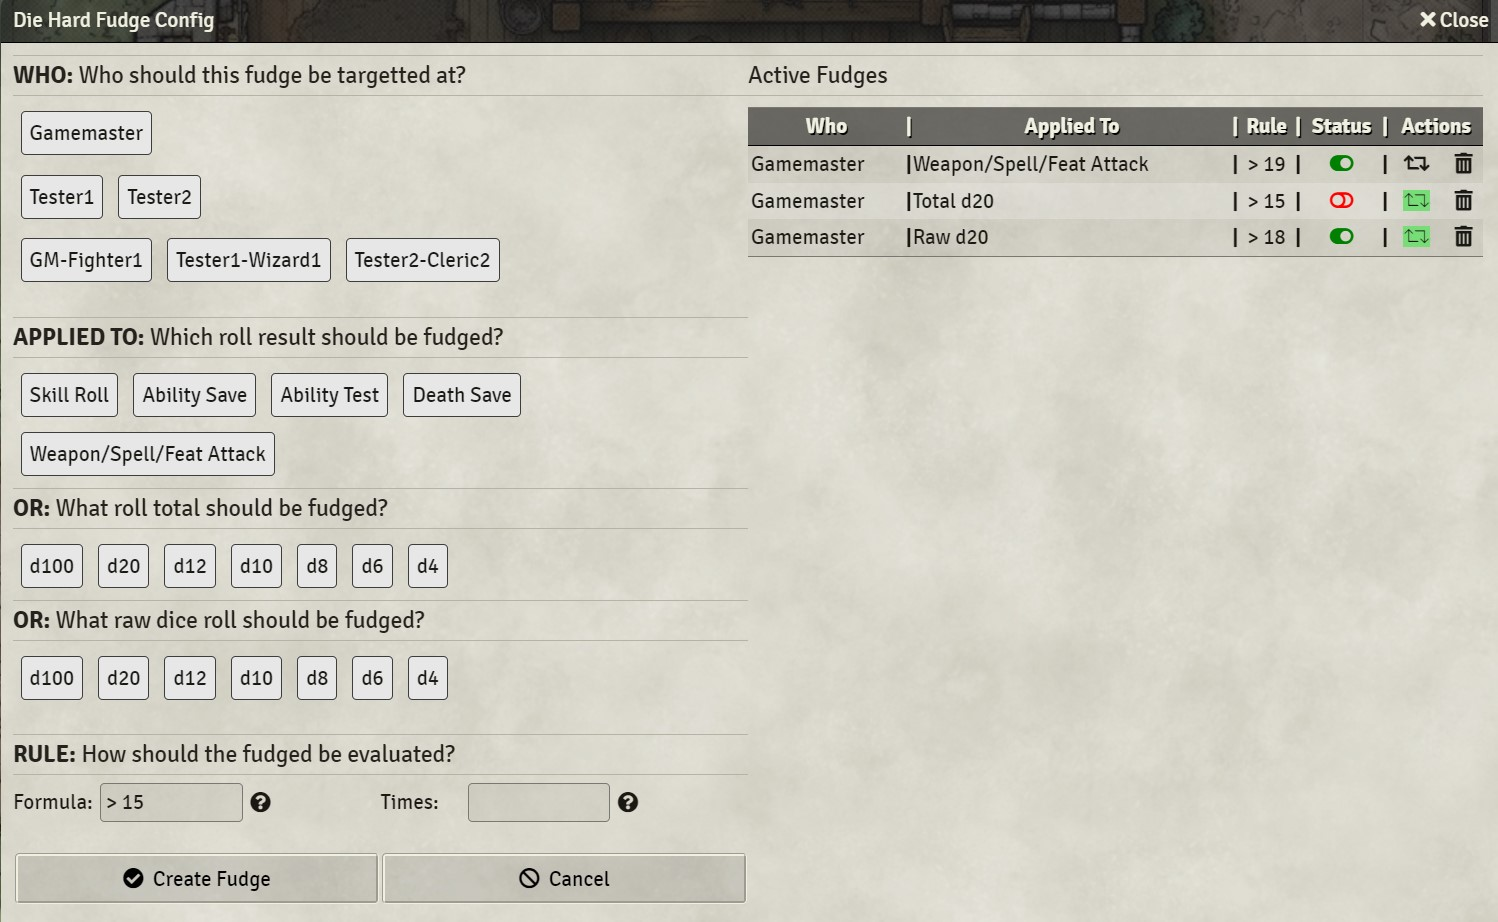
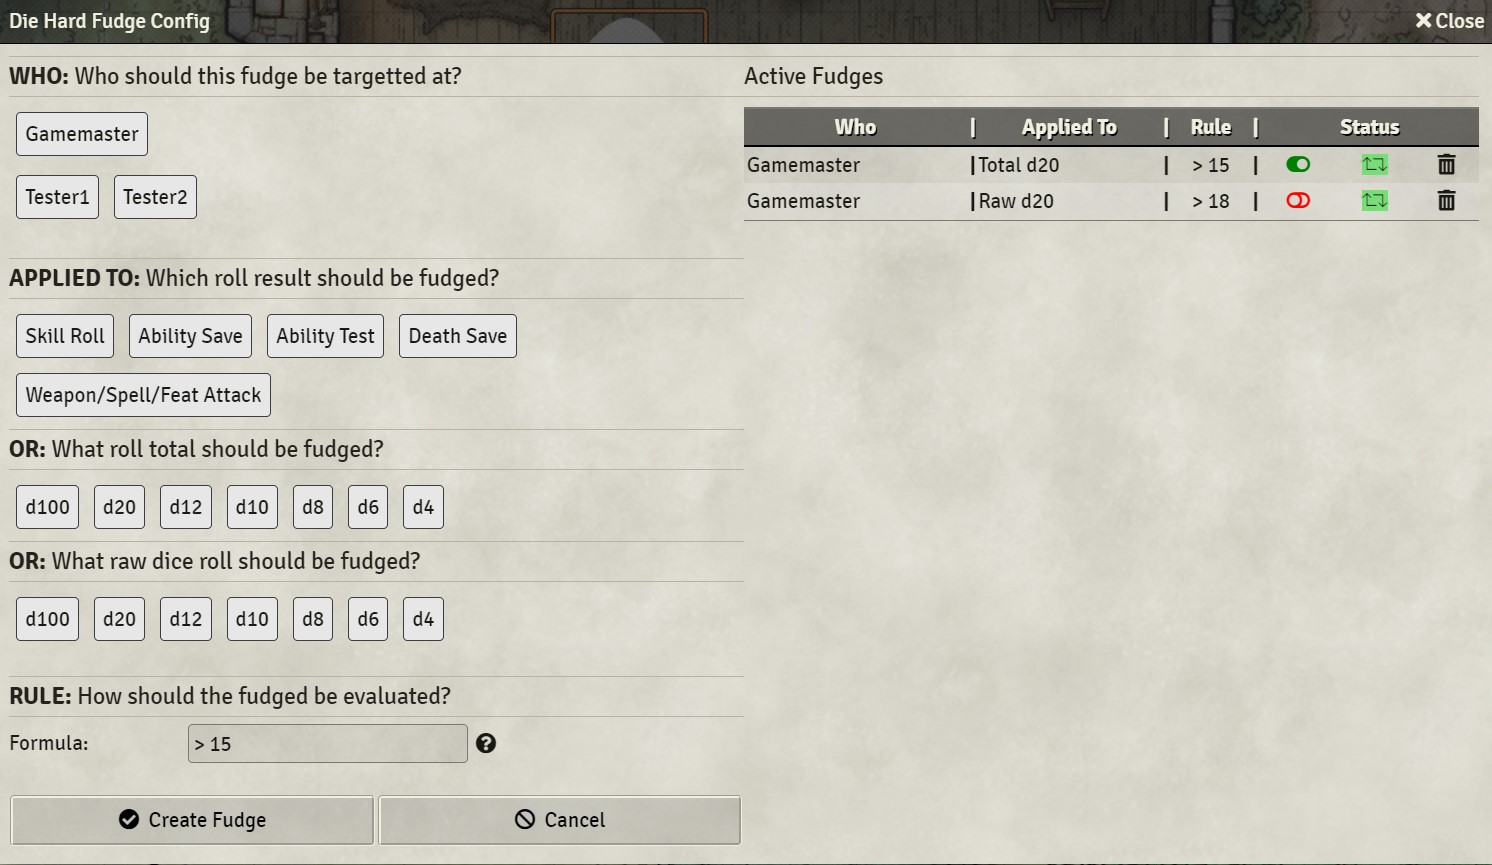
Documentation

Changed region(s): [[0.0, 0.0, 1.0, 1.0], [0.4933, 0.9364, 0.5241, 0.9676], [0.3083, 0.8428, 0.3391, 0.874]]

diff --git a/README.md b/README.md
@@ -24,14 +24,20 @@ Currently being (quasi) managed here: https://github.com/users/UranusBytes/proje
 Extensive logging is used within the module, with debug logging enabled with the package debugging enabled
 
 ## Known Issues
-* Raw die rolls for actors not working (even if fudge defined on GM/Player)
 * It's possible to define a fudge that is impossible to achieve (especially when considering modifiers.  Or to define a fudge of "> 20" for a d20).  The failsafe is attempting to fudge 150 times, at which point the closest possible is provided.
 * When the fudge config dialog is open, fudge status/list is not updated if any are changed by other GMs and/or PC/Actor rolls
 * Completely incompatible with [Better Rolls for 5e](https://github.com/RedReign/FoundryVTT-BetterRolls5e) #6
+* If both Fudge and Karma are enabled, a single roll that's being fudged can be influed by karma
 
 # Current module Functionality
 ## Fudge
 Allow the GM to influence raw die rolls (just the dice) or roll totals (dice + modifiers)
+## Karma
+Keep a history of die rolls per user, and if they are below a threshold over a defined history, either force the next roll to be above a minimum value (Simple), or increase the roll by a small amount until the average is above the threshold (Average)
+
+# Global Config
+The individual functionality can be enabled/disabled within the module settings
+![die-hard-fudge](docs/die-hard-config.jpg)
 
 # Fudge
 ![die-hard-fudge](docs/die-hard-fudge.jpg)
@@ -70,16 +76,37 @@ A green circular arrow means the fudge will re-enable itself after being used (p
 
 ![die-hard-fudge-3](docs/die-hard-fudge-3.jpg)
 
-# Mechanics
+## Mechanics
 The way Fudge works is that the next die roll of that type (either system specific, total result w/ modifiers, or a raw die roll) for that Player or Actor will be evaluated against the formula defined.  If it doesn't meet the formula criteria, then the result is rerolled in the background (max of 150 times), with the final result presented to the PC.  As it is re-rolling, if the attempted re-roll is "closer" to the desired fudge value, it will be kept.  (For circumstances where the fudge can never be achieved, at least get as close as possible)  The GM will get a whisper that outlines if the fudge was used (with all failed results), or if it was removed without being used (if first roll met formula criteria).  When a fudge is used to influence a die (or would have, but original result was sufficient), then the fudge is disabled (unless persistence is enabled). 
 
 ![die-hard-fudge-4](docs/die-hard-fudge-4.jpg)
 
+# Karma
+![die-hard-fudge](docs/die-hard-karma.jpg)
+
+With the module enabled, a praying hands icon will be displayed above the message tray. 
+
+![die-hard-fudge](docs/die-hard-karma-0.jpg)
+
+Clicking on this icon will open a configuration dialog.
+The available karma options can be enabled by clicking on the button
+
+![die-hard-fudge](docs/die-hard-karma-1.jpg)
+
+Within the dialog, the logic used to influence each Karma module is adjustable.
+The current history of player rolls is displayed.
+
+![die-hard-fudge-2](docs/die-hard-karma-2.jpg)
+
+
+# Mechanics
+Karma only works on raw die rolls; it does not influence total rolls directly (only indirectly by influencing the raw rolls) 
+
 
 
 # Future Planned Functionality
-## Karmic dice
-All for gradual adjustment/influence of player dice over time...
+## RNG Alternatives
+Alternative RNG 
 
 # Thanks
 None of this module would be possible without the inspiration, and continued guidance/support/feedback, from @apoapostolov.  Thank you!

diff --git a/CHANGELOG.md b/CHANGELOG.md
@@ -44,4 +44,5 @@ Aug 2, 2022
 ## v0.0.9
 Aug 7, 2022
 * Lots of refactoring to cleanup code
+* Remove fudges for actors
 * Simple and Avg Karma
